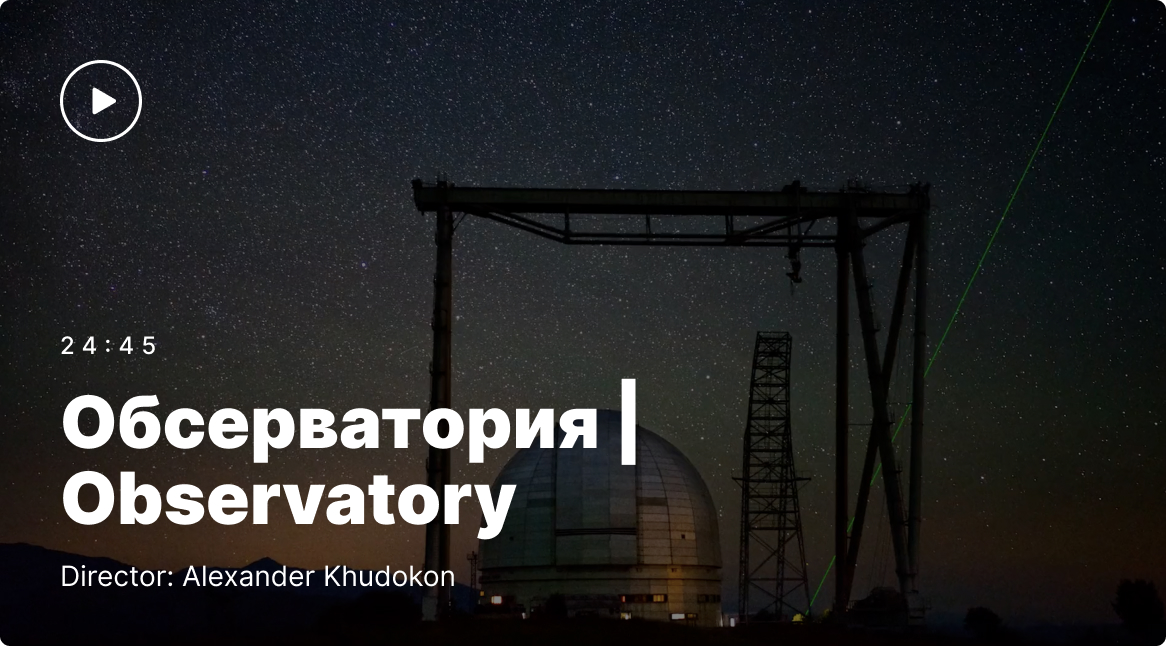
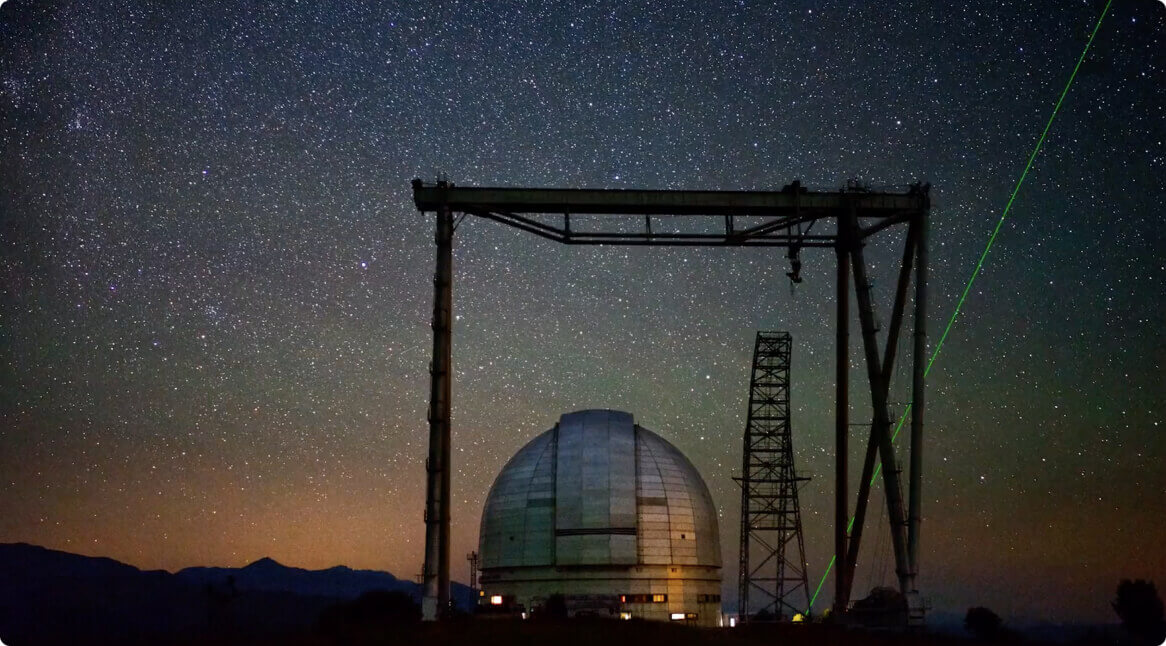
Video block improvements

diff --git a/index.html b/index.html
@@ -352,33 +352,45 @@
           </article>
         </section>
         <section class="video">
-          <h1 class="section-title">
+          <h1 class="video__title">
             В глубины Земли и&nbsp;в&nbsp;дальний космос
           </h1>
-          <p class="section-subtitle">
+          <p class="video__subtitle">
             Видео от студии Stereotactic о местах в России, где ведутся
             фундаментальные исследования
           </p>
           <ul class="video__container">
-            <li>
+            <li class="video__clip">
               <img
                 src="./images/colors-of-kamchatka.jpg"
                 alt="Цвета Камчатки"
                 class="video__item"
               />
+              <div class="video__caption">
+                <img src="./images/icon_play.svg" />
+                <p class="video__duration">6:30</p>
+                <p class="video__name">Colors of Kamchatka</p>
+                <p class="video__author">Director: Pavel Karykhalin</p>
+              </div>
             </li>
-            <li>
+            <li class="video__clip">
               <img
                 src="./images/observatory.jpg"
                 alt="Обсерватория"
                 class="video__item"
               />
+              <div class="video__caption">
+                <img src="./images/icon_play.svg" />
+                <p class="video__duration">24:45</p>
+                <p class="video__name">Обсерватория | Observatory</p>
+                <p class="video__author">Director: Alexander Khudokon</p>
+              </div>
             </li>
           </ul>
         </section>
         <section class="comments">
-          <h1 class="section-title">Фотографы, снимающие Россию</h1>
-          <p class="section-subtitle">
+          <h1 class="comments__title">Фотографы, снимающие Россию</h1>
+          <p class="comments__subtitle">
             Природа и люди вдохновили их работы, удостоенные наград на
             международных конкурсах
           </p>

diff --git a/pages/index.css b/pages/index.css
@@ -32,11 +32,18 @@
 @import url(../blocks/place/__paragraph/place__paragraph.css);
 @import url(../blocks/place/__link/place__link.css);
 @import url(../blocks/video/video.css);
-@import url(../blocks/section-title/section-title.css);
-@import url(../blocks/section-subtitle/section-subtitle.css);
+@import url(../blocks/video/__title/video__title.css);
+@import url(../blocks/video/__subtitle/video__subtitle.css);
 @import url(../blocks/video/__container/video__container.css);
 @import url(../blocks/video/__item/video__item.css);
+@import url(../blocks/video/__clip/video__clip.css);
+@import url(../blocks/video/__caption/video__caption.css);
+@import url(../blocks/video/__duration/video__duration.css);
+@import url(../blocks/video/__name/video__name.css);
+@import url(../blocks/video/__author/video__author.css);
 @import url(../blocks/comment/comment.css);
+@import url(../blocks/comments/__title/comments__title.css);
+@import url(../blocks/comments/__subtitle/comments__subtitle.css);
 @import url(../blocks/comment/__item/comment__item.css);
 @import url(../blocks/comment/__image/comment__image.css);
 @import url(../blocks/comment/__quote/comment__quote.css);

diff --git a/blocks/comments/__title/comments__title.css b/blocks/comments/__title/comments__title.css
@@ -1,23 +1,23 @@
-.section-title {
+.comments__title {
   margin: 0 auto;
   padding: 0;
   max-width: 800px;
   font-style: normal;
   font-weight: 900;
   font-size: 72px;
-  line-height: 1.1;
+  line-height: 1.09;
   text-align: center;
 }
 
 @media screen and (max-width: 1023px) {
-  .section-title {
+  .comments__title {
     font-size: 42px;
-    max-width: 443px;
+    max-width: 660px;
   }
 }
 
-@media screen and (max-width: 767px) {
-  .section-title {
+@media screen and (max-width: 425px) {
+  .comments__title {
     font-size: 32px;
     max-width: 288px;
   }

diff --git a/blocks/video/__title/video__title.css b/blocks/video/__title/video__title.css
@@ -1,0 +1,24 @@
+.video__title {
+  margin: 0 auto;
+  padding: 0;
+  max-width: 800px;
+  font-style: normal;
+  font-weight: 900;
+  font-size: 72px;
+  line-height: 1.1;
+  text-align: center;
+}
+
+@media screen and (max-width: 1023px) {
+  .video__title {
+    font-size: 42px;
+    max-width: 660px;
+  }
+}
+
+@media screen and (max-width: 767px) {
+  .video__title {
+    font-size: 32px;
+    max-width: 288px;
+  }
+}

diff --git a/blocks/video/__clip/video__clip.css b/blocks/video/__clip/video__clip.css
@@ -1,0 +1,23 @@
+.video__clip {
+  position: relative;
+  overflow: hidden;
+  cursor: pointer;
+}
+
+.video__clip:before {
+  content: "";
+  position: absolute;
+  z-index: 1;
+  height: 100%;
+  width: 100%;
+  top: 0;
+  left: 0;
+  background: #2a2c2f;
+  opacity: 0.5;
+  transition: all 0.5s ease;
+}
+
+.video__clip:hover:before {
+  opacity: 0.8;
+  cursor: pointer;
+}

diff --git a/blocks/video/__subtitle/video__subtitle.css b/blocks/video/__subtitle/video__subtitle.css
@@ -1,6 +1,6 @@
-.section-subtitle {
+.video__subtitle {
   margin: 0 auto;
-  padding: 48px 0 0;
+  padding: 32px 0 0;
   max-width: 640px;
   font-weight: 400;
   font-size: 24px;
@@ -9,7 +9,7 @@
 }
 
 @media screen and (max-width: 767px) {
-  .section-subtitle {
+  .video__subtitle {
     font-size: 16px;
     max-width: 288px;
     padding: 16px 0 0;

diff --git a/blocks/comments/__subtitle/comments__subtitle.css b/blocks/comments/__subtitle/comments__subtitle.css
@@ -1,0 +1,17 @@
+.comments__subtitle {
+  margin: 0 auto;
+  padding: 42px 0 0;
+  max-width: 640px;
+  font-weight: 400;
+  font-size: 24px;
+  line-height: 1.45;
+  text-align: center;
+}
+
+@media screen and (max-width: 767px) {
+  .comments__subtitle {
+    font-size: 16px;
+    max-width: 288px;
+    padding: 16px 0 0;
+  }
+}

diff --git a/blocks/comment/__quote/comment__quote.css b/blocks/comment/__quote/comment__quote.css
@@ -1,14 +1,15 @@
 .comment__quote {
   margin: 0;
-  padding: 42px 0 24px;
+  padding: 42px 0 12px;
   font-weight: 400;
   font-size: 14px;
-  line-height: 1.5;
+  line-height: 1.7;
   text-align: left;
 }
 @media screen and (max-width: 1023px) {
   .comment__quote {
     order: 3;
+    font-size: 16px;
   }
 }
 

diff --git a/blocks/video/__item/video__item.css b/blocks/video/__item/video__item.css
@@ -2,6 +2,7 @@
   display: block;
   margin: 0 auto;
   max-width: 583px;
+  max-height: 323px;
   border-radius: 8px;
   object-fit: cover;
 }
@@ -9,6 +10,7 @@
 @media screen and (max-width: 1279px) {
   .video__item {
     max-width: 456px;
+    min-height: 288px;
   }
 }
 

diff --git a/blocks/video/__name/video__name.css b/blocks/video/__name/video__name.css
@@ -1,0 +1,10 @@
+.video__name {
+  font-style: normal;
+  font-weight: 900;
+  font-size: 36px;
+  line-height: 1.1;
+  max-width: 322px;
+  margin: 0;
+  padding: 0;
+  padding-bottom: 7%;
+}

diff --git a/blocks/video/__container/video__container.css b/blocks/video/__container/video__container.css
@@ -1,6 +1,6 @@
 .video__container {
   margin: 0 auto;
-  padding: 72px 0 102px;
+  padding: 62px 0 102px;
   list-style-type: none;
   display: flex;
   gap: 18px;

diff --git a/blocks/video/__duration/video__duration.css b/blocks/video/__duration/video__duration.css
@@ -1,0 +1,8 @@
+.video__duration {
+  margin: 0;
+  padding: 15% 0 2%;
+  font-weight: 400;
+  font-size: 12px;
+  line-height: 1.1;
+  letter-spacing: 0.3em;
+}
